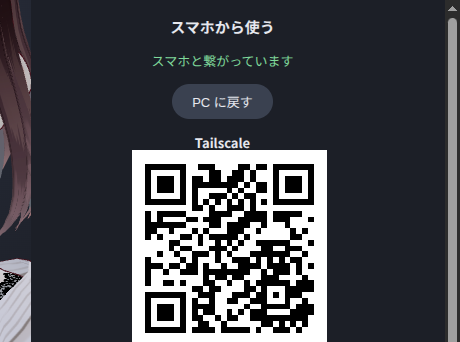
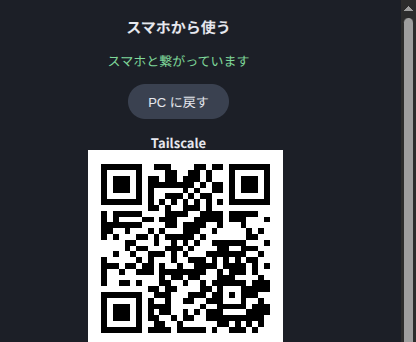
QR の窓の画像の左端に写っていた別の窓を切り落とす

diff --git a/README.md b/README.md
@@ -88,7 +88,7 @@ Anthropic の API キーで Claude を使うこともできます（「もっと
 
 パネル右上のスマホの絵のボタン（「スマホで使う」）を押すと、ペルソナとパネルはスマホ（Android の Chrome など）に移り、PC の窓には QR コードが出ます。同じ Wi-Fi につないだスマホで「同じ Wi-Fi から」の QR を読んでください。その日の作業はそのまま続き、操作はすべてスマホからできます。PC の窓の「PC に戻す」で元の窓に戻ります。
 
-<img src="images/phone-qr.png" alt="スマホに切り替えたあとの PC の窓。「スマホと繋がっています」と「PC に戻す」のボタン、宛先ごとの QR コード" width="460"> <img src="images/phone.png" alt="スマホに移ったペルソナとパネル。作業中の残り時間と、ペルソナの作業の様子が出ている" width="160">
+<img src="images/phone-qr.png" alt="スマホに切り替えたあとの PC の窓。「スマホと繋がっています」と「PC に戻す」のボタン、宛先ごとの QR コード" width="416"> <img src="images/phone.png" alt="スマホに移ったペルソナとパネル。作業中の残り時間と、ペルソナの作業の様子が出ている" width="160">
 
 [Tailscale](https://tailscale.com/) で PC とスマホを繋いでいれば、「Tailscale」の QR で、同じ Wi-Fi でなくても使えます。ただし PC の前にいるものとして動くので、PC を離れている間は「詰まってる？」の声かけが出たり、休憩が終わっても席を離れているとみなして待つことがあります（スマホの「再開」で続きます）。
 
